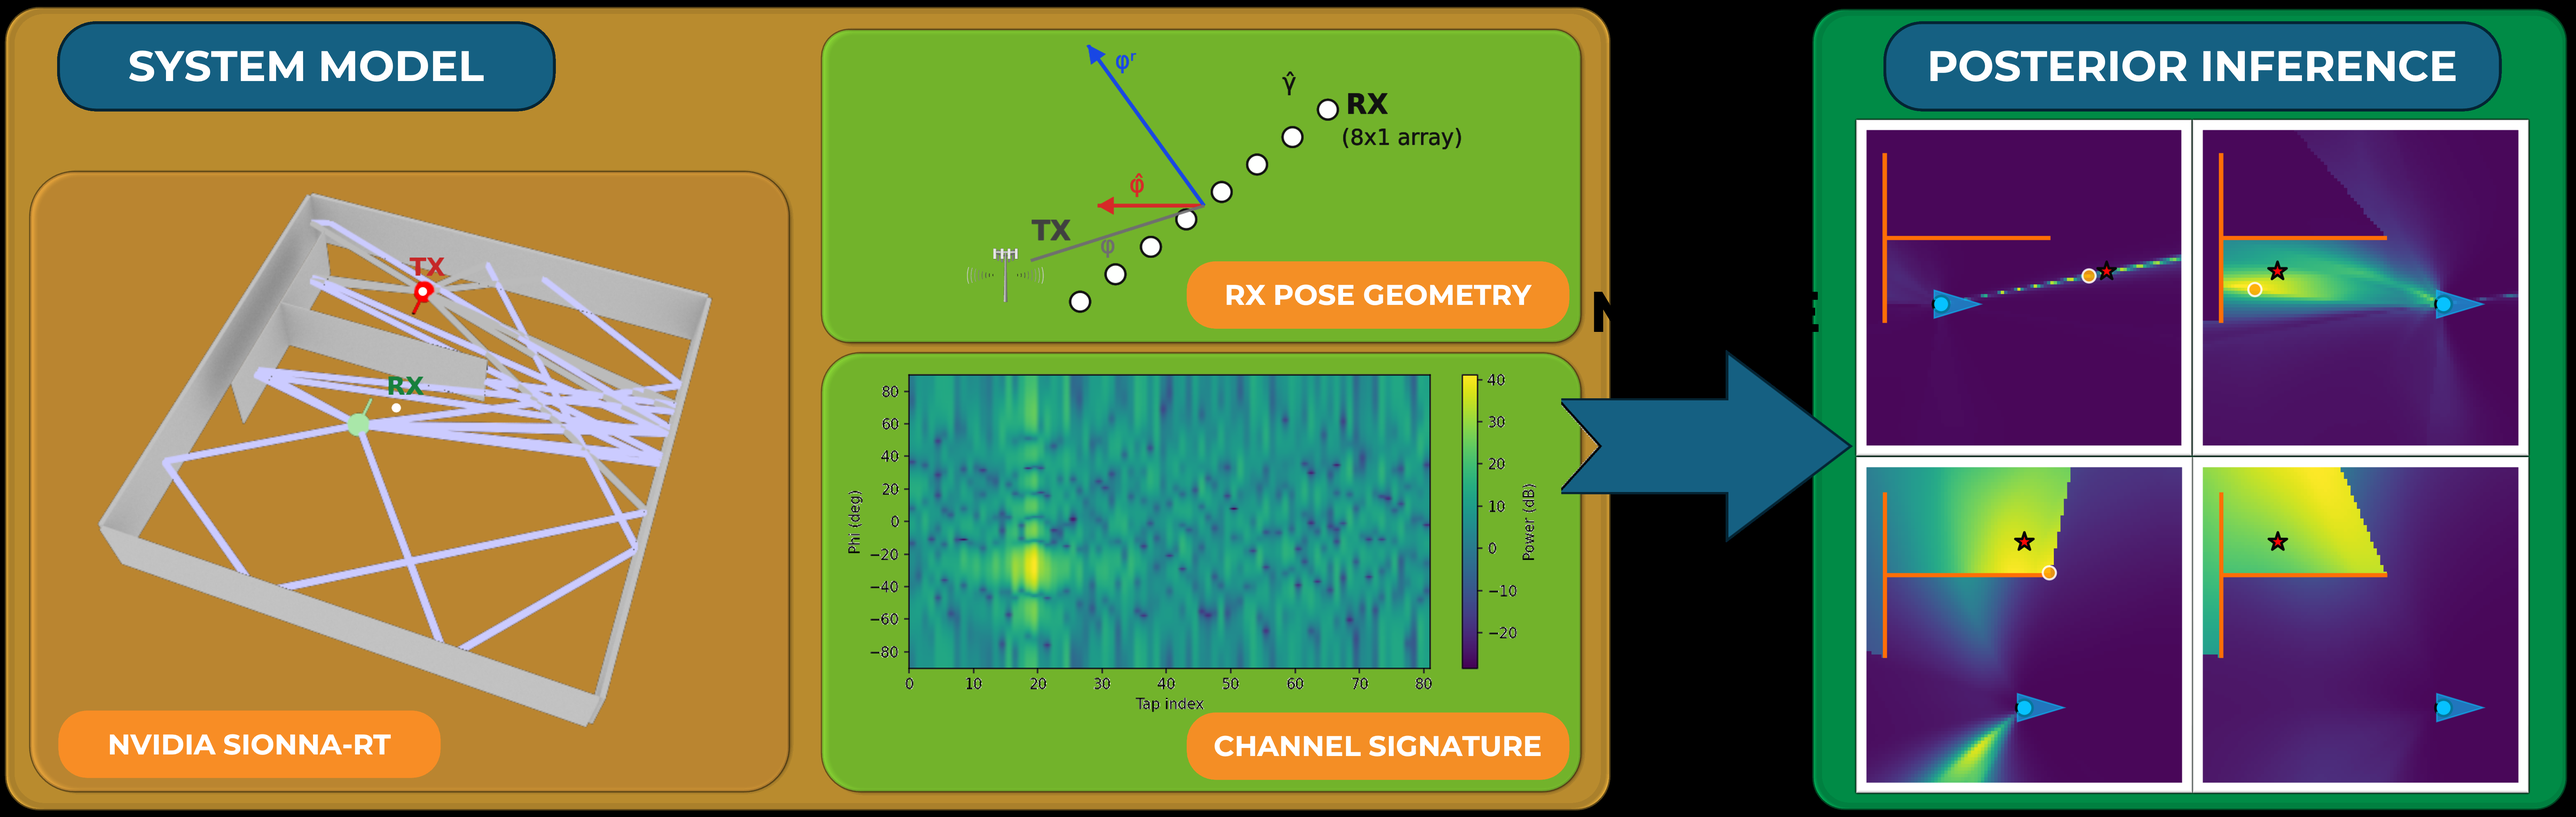
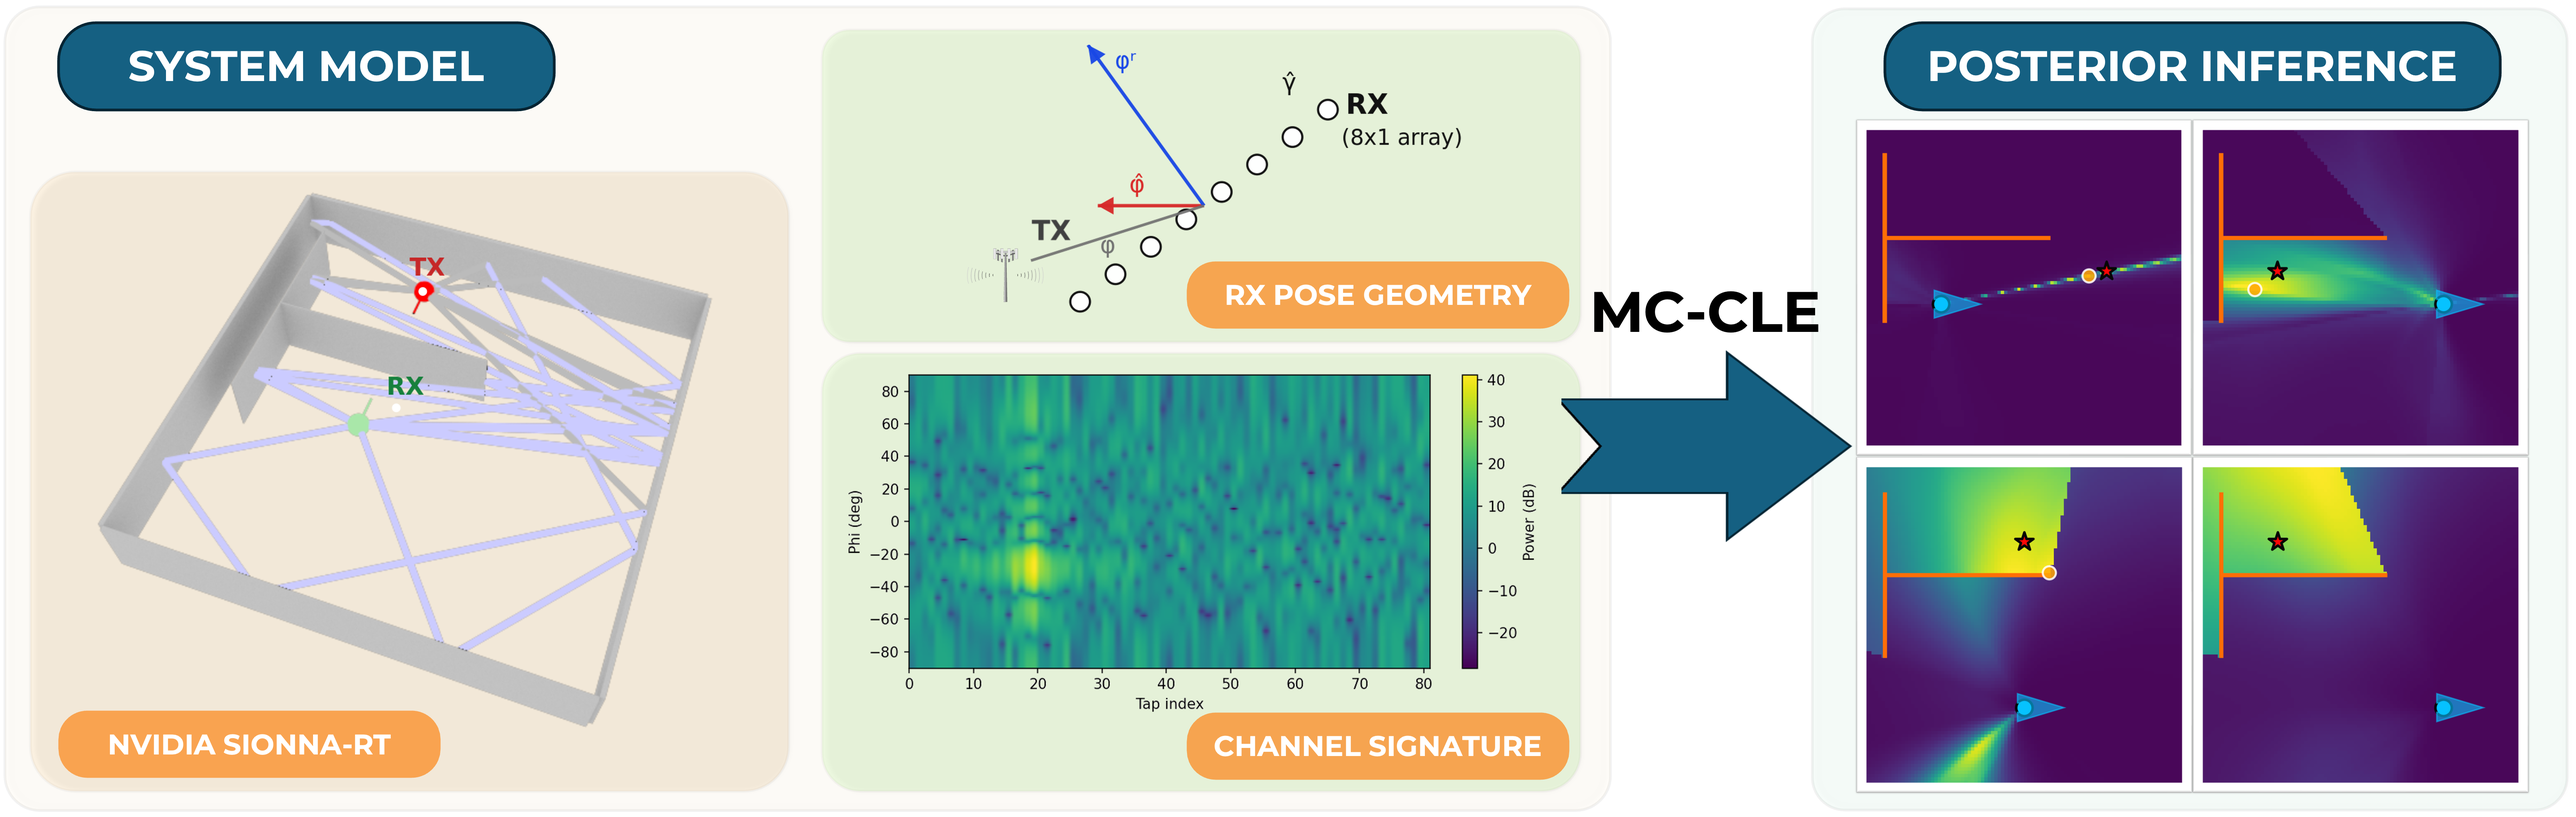
Update MC-CLE front plot styling

diff --git a/content/projects/rf-belief-inference/index.md b/content/projects/rf-belief-inference/index.md
@@ -13,7 +13,9 @@ tags:
 
 I develop posterior RF localization methods that preserve competing transmitter-location hypotheses instead of collapsing wireless observations into a single point estimate. This line includes **MC-CLE** for candidate-likelihood posterior inference and **LOCUS-DT**, which uses ray-tracing wireless digital twins as candidate-indexed multipath libraries for site-agnostic, layout-aware uncertainty scoring.
 
-![MC-CLE posterior inference workflow](mccle_flow.png)
+<div style="background: #fff; padding: 12px; border-radius: 6px;">
+  <img src="mccle_flow.png" alt="MC-CLE posterior inference workflow" style="display: block; width: 100%; height: auto;" />
+</div>
 
 *MC-CLE uses the ray-tracing scene, receiver pose geometry, and channel signature to score candidate transmitter locations and produce a posterior belief map.*
 
